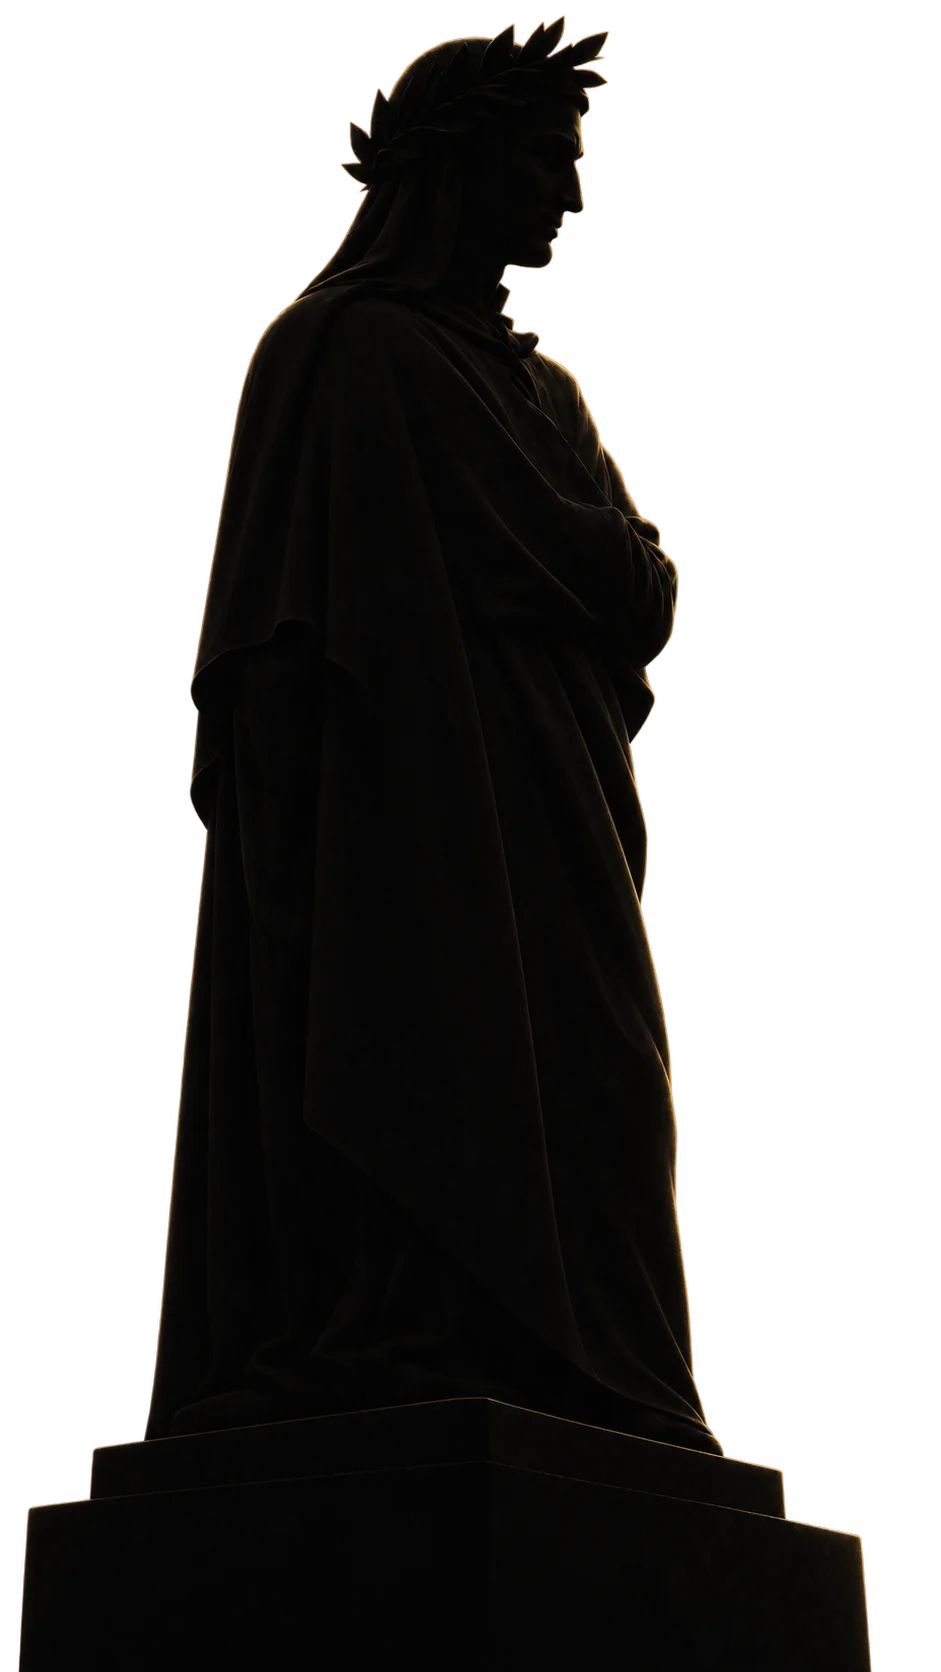
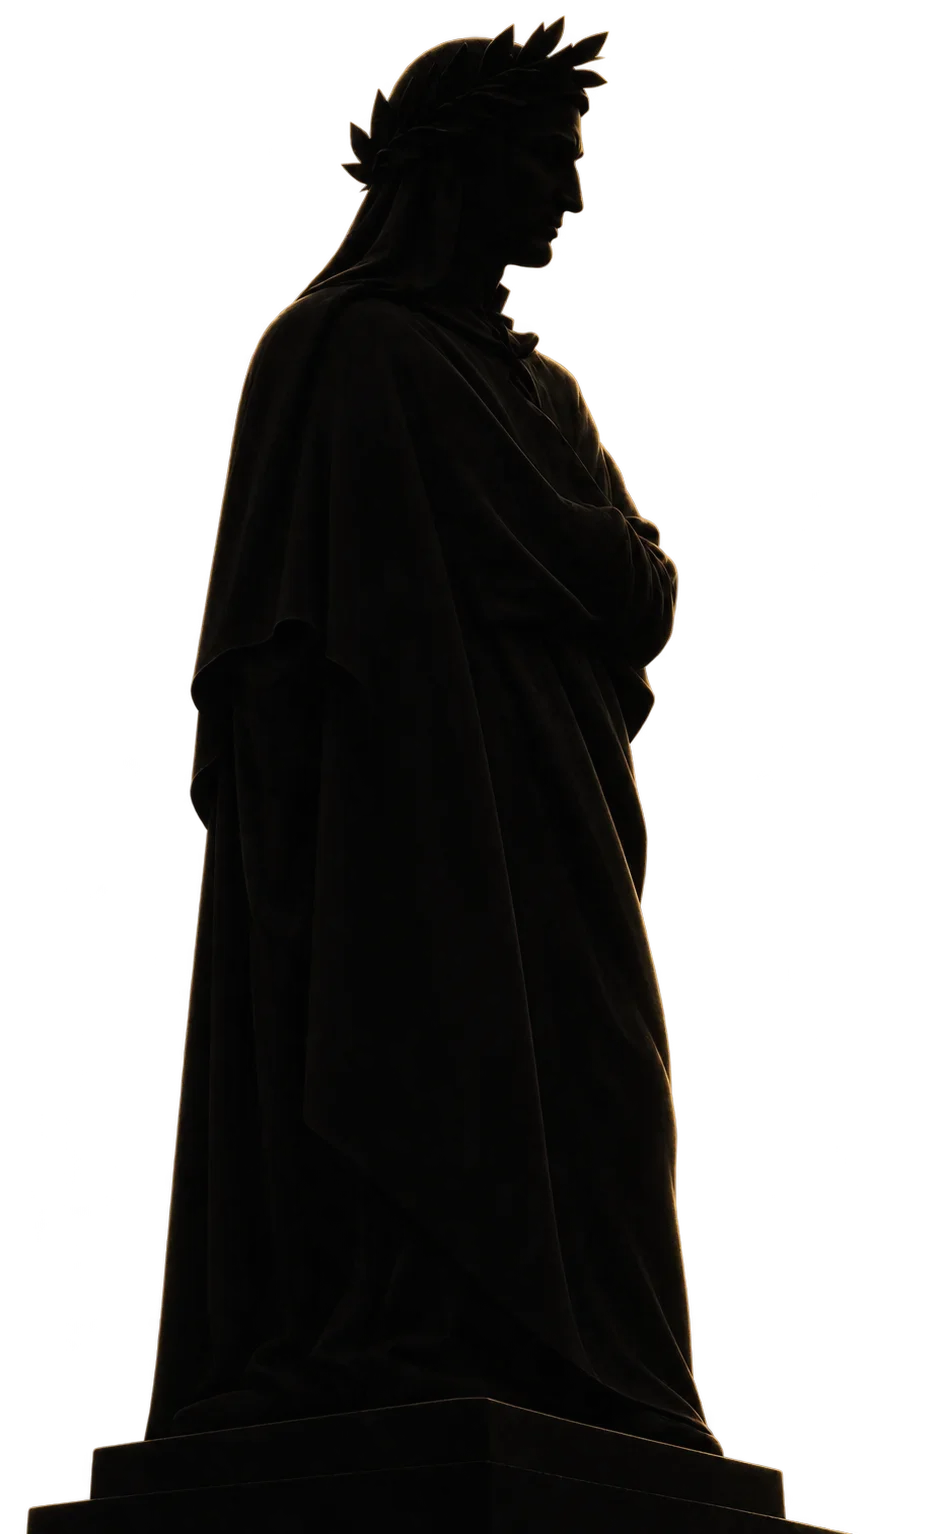
Lisää responsiiviset mobiilisäännöt ja rajaa patsaskuva
Lisää hillityn text-shadow-erottuvuuden hero-otsikoihin, matalamman
heron yhteystietosivulle mobiilissa, pelin kääntö-/käyttöohjetekstit,
kosketuslaitteiden lippu- ja Instagram-kolmio-säädöt sekä Spotify-
osion mobiilipaddingin. Rajaa patsas.webp:n jalustan pois ja päivittää
hero-kuvan mitat. Korjaa pelialueen reunalla vaakatilassa näkyneen
ohuen raon pyöristämällä .peli:n leveys round()-funktiolla
kokonaislukuun, jotta 4:1-kuvasuhteen komposiittikerros asettuu
tarkasti laitepikseliruudukkoon.

diff --git a/css/style.css b/css/style.css
@@ -107,12 +107,14 @@ a {
     letter-spacing: 0.4em;
     margin-bottom: 0.75rem;
     opacity: 0.7;
+    text-shadow: 0 0 4px rgba(188, 198, 208, 0.4);
 }
 
 .hero-kappale {
     display: block;
     font-size: clamp(2.5rem, 9vw, 6rem);
     letter-spacing: 0.15em;
+    text-shadow: 0 0 6px rgba(188, 198, 208, 0.35);
 }
 
 .hero-sivu {
@@ -125,6 +127,16 @@ a {
     width: auto;
     max-width: 100%;
     max-height: 100vh;
+}
+
+body.sivu-yhteystiedot .hero {
+    min-height: 70vh;
+    min-height: 70svh;
+}
+
+body.sivu-yhteystiedot .hero-kuva {
+    max-height: 70vh;
+    max-height: 70svh;
 }
 
 .hero-nav {
@@ -299,14 +311,41 @@ footer {
     margin: 0 auto;
     padding: 5rem 1.5rem;
     display: flex;
+    flex-direction: column;
     align-items: center;
     justify-content: center;
+    gap: 0.75rem;
     background: none;
+}
+
+.peli-kaanna {
+    display: none;
+    margin: 0;
+    font-size: 0.8rem;
+    letter-spacing: 0.05em;
+    color: var(--vari-keski);
+    text-align: center;
+}
+
+.peli-ohje {
+    margin: 0;
+    font-size: 0.8rem;
+    letter-spacing: 0.05em;
+    color: rgba(18, 22, 28, 0.5);
+    text-align: center;
+}
+
+.peli-ohje-nappaimet {
+    display: none;
+}
+
+body.peli-kaynnissa .peli-ohje {
+    display: none;
 }
 
 .peli {
     position: relative;
-    width: min(90vw, 640px);
+    width: round(down, min(90vw, 640px), 4px);
     aspect-ratio: 4 / 1;
     margin: 0 auto;
     overflow: hidden;
@@ -500,4 +539,59 @@ body.pelisivu.peli-kaynnissa {
 
 .aani.vaimennettu .aani-viiva {
     display: block;
+}
+
+@media (hover: hover) and (pointer: fine) {
+    .peli-ohje-nappaimet {
+        display: inline;
+    }
+}
+
+@media (max-width: 640px) {
+    body.sivu-yhteystiedot .hero {
+        min-height: 60vh;
+        min-height: 60svh;
+    }
+
+    body.sivu-yhteystiedot .hero-kuva {
+        max-height: 60vh;
+        max-height: 60svh;
+    }
+
+    .soitin {
+        padding-top: 36px;
+    }
+}
+
+@media (max-width: 380px) {
+    .some-kolmio img {
+        width: 128px;
+    }
+
+    .some-kolmio {
+        gap: 1rem 28px;
+    }
+}
+
+@media (orientation: portrait) and (max-width: 640px) {
+    .peli-kaanna {
+        display: block;
+    }
+}
+
+@media (orientation: landscape) and (max-height: 500px) {
+    .peli {
+        width: round(down, min(96vw, 384vh), 4px);
+        width: round(down, min(96vw, 384svh), 4px);
+    }
+}
+
+@media (hover: none) {
+    .mysteeri {
+        opacity: 0.42;
+    }
+
+    .mysteeri img {
+        width: 82px;
+    }
 }

diff --git a/pages/peli.html b/pages/peli.html
@@ -30,6 +30,9 @@
     <main class="peli-sivu">
         <h1 class="vain-ruudunlukijalle">ODFM</h1>
 
+        <p class="peli-kaanna">Käännä puhelin</p>
+        <p class="peli-ohje">Pidä vasenta tai oikeaa puolta painettuna<span class="peli-ohje-nappaimet">, tai liiku nuolinäppäimillä</span></p>
+
         <div class="peli" id="kentta">
             <div class="lattia"></div>
             <div class="kerrosnimi" id="kerrosnimi"></div>

diff --git a/pages/etusivu.html b/pages/etusivu.html
@@ -36,7 +36,7 @@
             </a>
         </nav>
 
-        <img class="hero-kuva" src="../images/patsas.webp" alt="" width="941" height="1672">
+        <img class="hero-kuva" src="../images/patsas.webp" alt="" width="941" height="1534">
 
         <h1 class="hero-otsikko">
             <span class="hero-yhtye">Ode &mdash; ODFM &mdash; Färmy</span>

diff --git a/index.html b/index.html
@@ -36,7 +36,7 @@
             </a>
         </nav>
 
-        <img class="hero-kuva" src="images/patsas.webp" alt="" width="941" height="1672">
+        <img class="hero-kuva" src="images/patsas.webp" alt="" width="941" height="1534">
 
         <h1 class="hero-otsikko">
             <span class="hero-yhtye">Ode &mdash; ODFM &mdash; Färmy</span>

diff --git a/pages/yhteystiedot.html b/pages/yhteystiedot.html
@@ -25,7 +25,7 @@
     <meta property="og:description" content="ODFM-yhtyeen yhteystiedot - Ode ja Färmy">
 </head>
 
-<body>
+<body class="sivu-yhteystiedot">
     <a class="ohita-linkki" href="#sisalto">Siirry sisältöön</a>
 
     <header class="hero">
